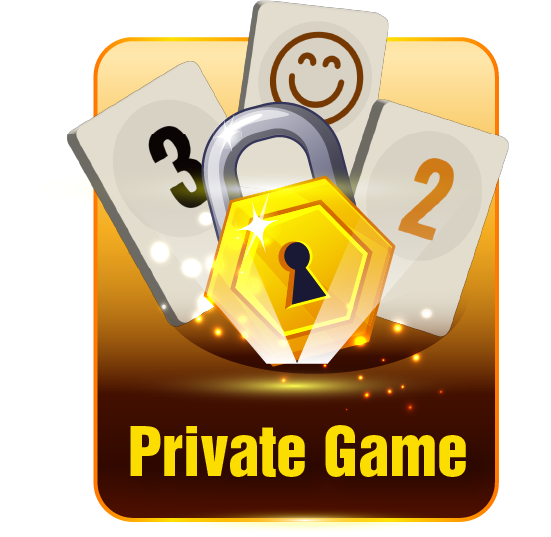
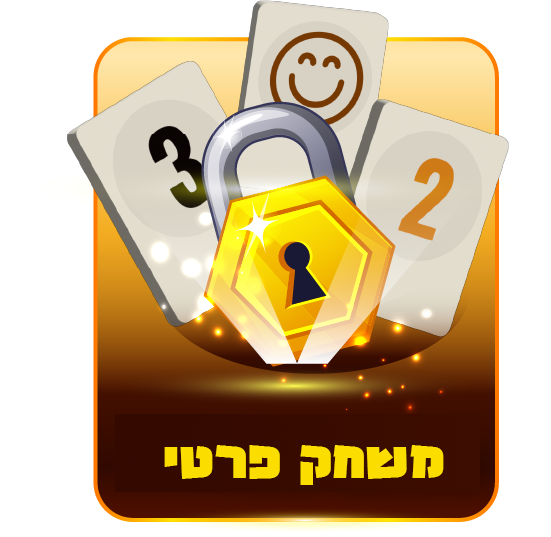
Heb

Changed region(s): [[0.216, 0.7747, 0.8639, 0.9236]]

diff --git a/src/components/Cards.js b/src/components/Cards.js
@@ -15,15 +15,25 @@ const Cards = ({ profile, setOpenModal, loading, rooms }) => {
                 <div id="public">
                     {loading ? "" : (rooms && rooms.length > 0 ? <div className="rooms">
                         {rooms.map((e, i) => {
-                            return <div className="card" key={i}>
+                            return (
+                              <div className="card" key={i}>
                                 <div>
-                                    <div><span>Code: </span>{e.code}</div>
-                                    <div><span>Cost: </span>{e.roomCost}</div>
+                                  <div>
+                                    <span>קוד: </span>
+                                    {e.code}
+                                  </div>
+                                  <div>
+                                    <span>נקודות: </span>
+                                    {e.roomCost}
+                                  </div>
                                 </div>
                                 <div>
-                                    <Link to={`/game?code=${e.code}`} style={{ textDecoration: "none" }} className="btn-primary">Join</Link>
+                                  <Link to={`/game?code=${e.code}`} style={{ textDecoration: "none" }} className="btn-primary">
+                                    הצטרף
+                                  </Link>
                                 </div>
-                            </div>
+                              </div>
+                            )
                         })}
                     </div> : "")
                     }

diff --git a/src/pages/Public.js b/src/pages/Public.js
@@ -45,7 +45,7 @@ export default function Public() {
                             <div><span>Cost: </span>{e.roomCost}</div>
                         </div>
                         <div>
-                            <Link to={`/game?code=${e.code}`} style={{ textDecoration: "none" }} className="btn-primary">Join</Link>
+                            <Link to={`/game?code=${e.code}`} style={{ textDecoration: "none" }} className="btn-primary">הצטרף</Link>
                         </div>
                     </div>
                 })}

diff --git a/src/components/UserInfo.js b/src/components/UserInfo.js
@@ -9,7 +9,7 @@ export default function UserInfo({ profile, setProfile }) {
             <img src="/assets/star.png" className="star" height={20} width={20} alt="user" />
         </div>
         <div className="user_info">
-            <div className="user_heading">User Name</div>
+            <div className="user_heading">שם משתמש </div>
             <div className="user_name">{profile.userName}</div>
         </div>
     </div>
